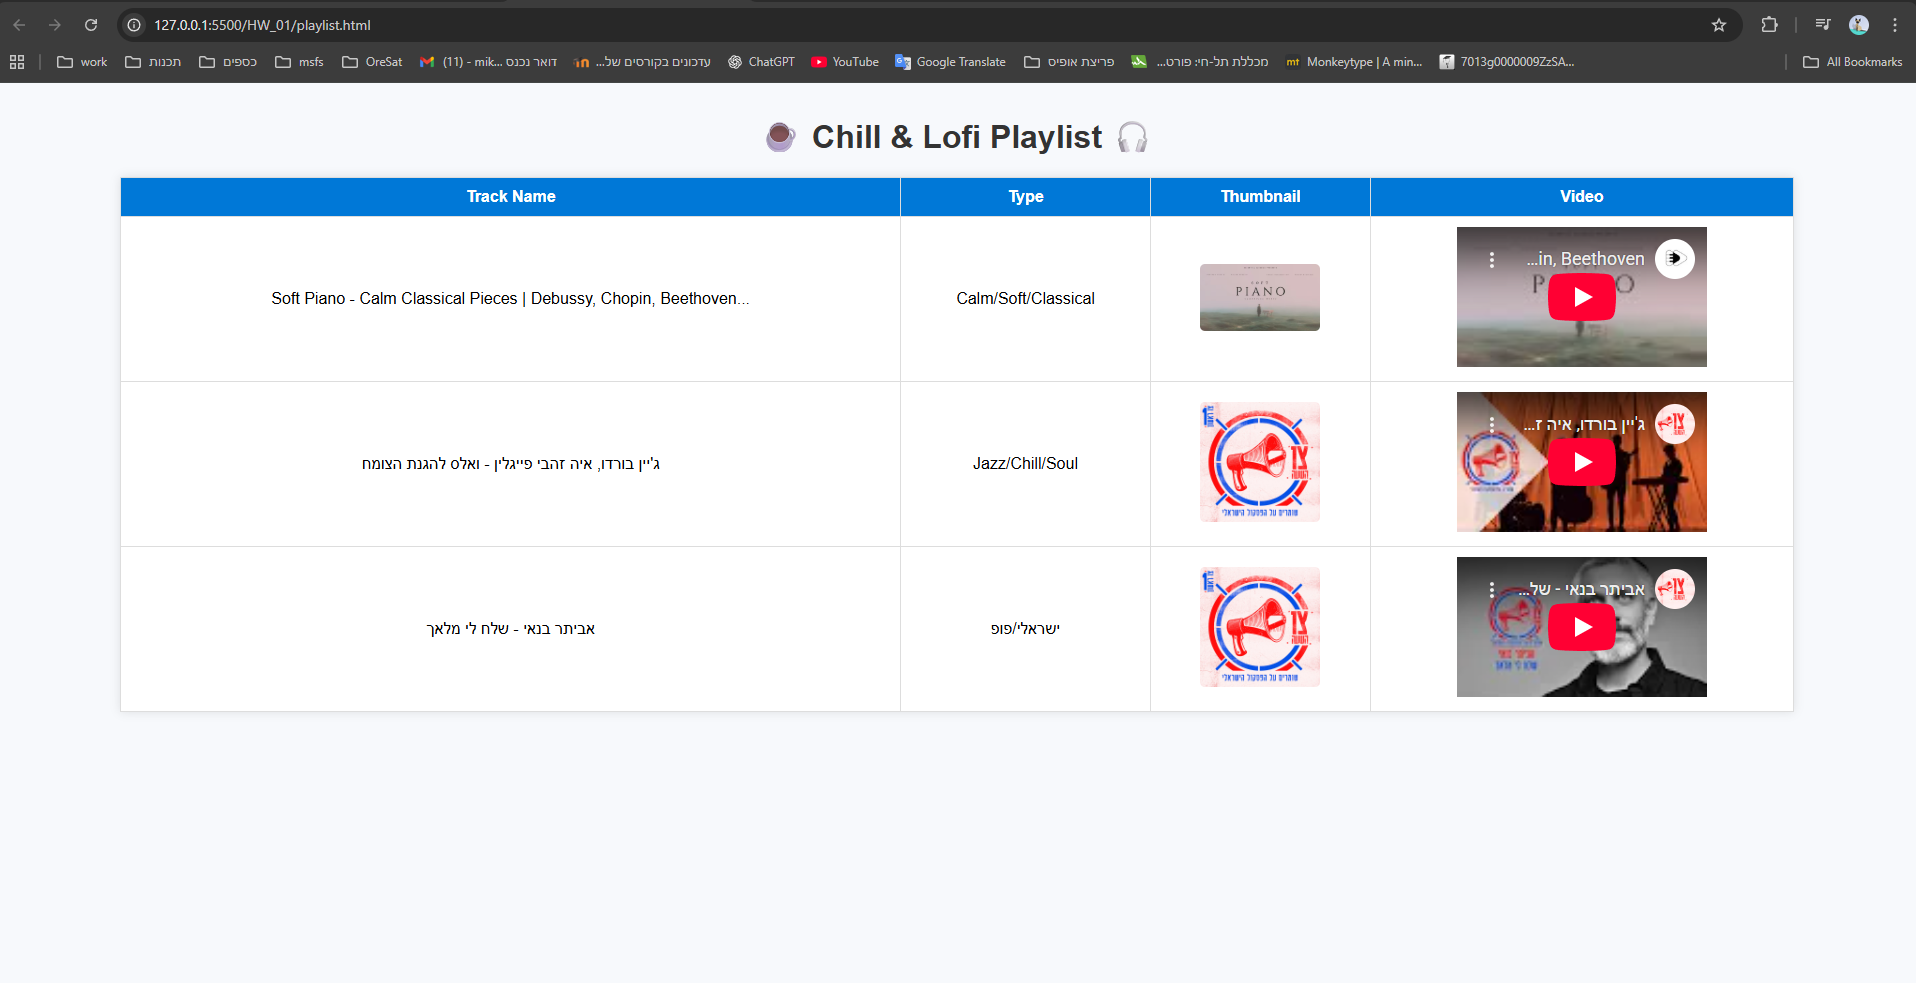
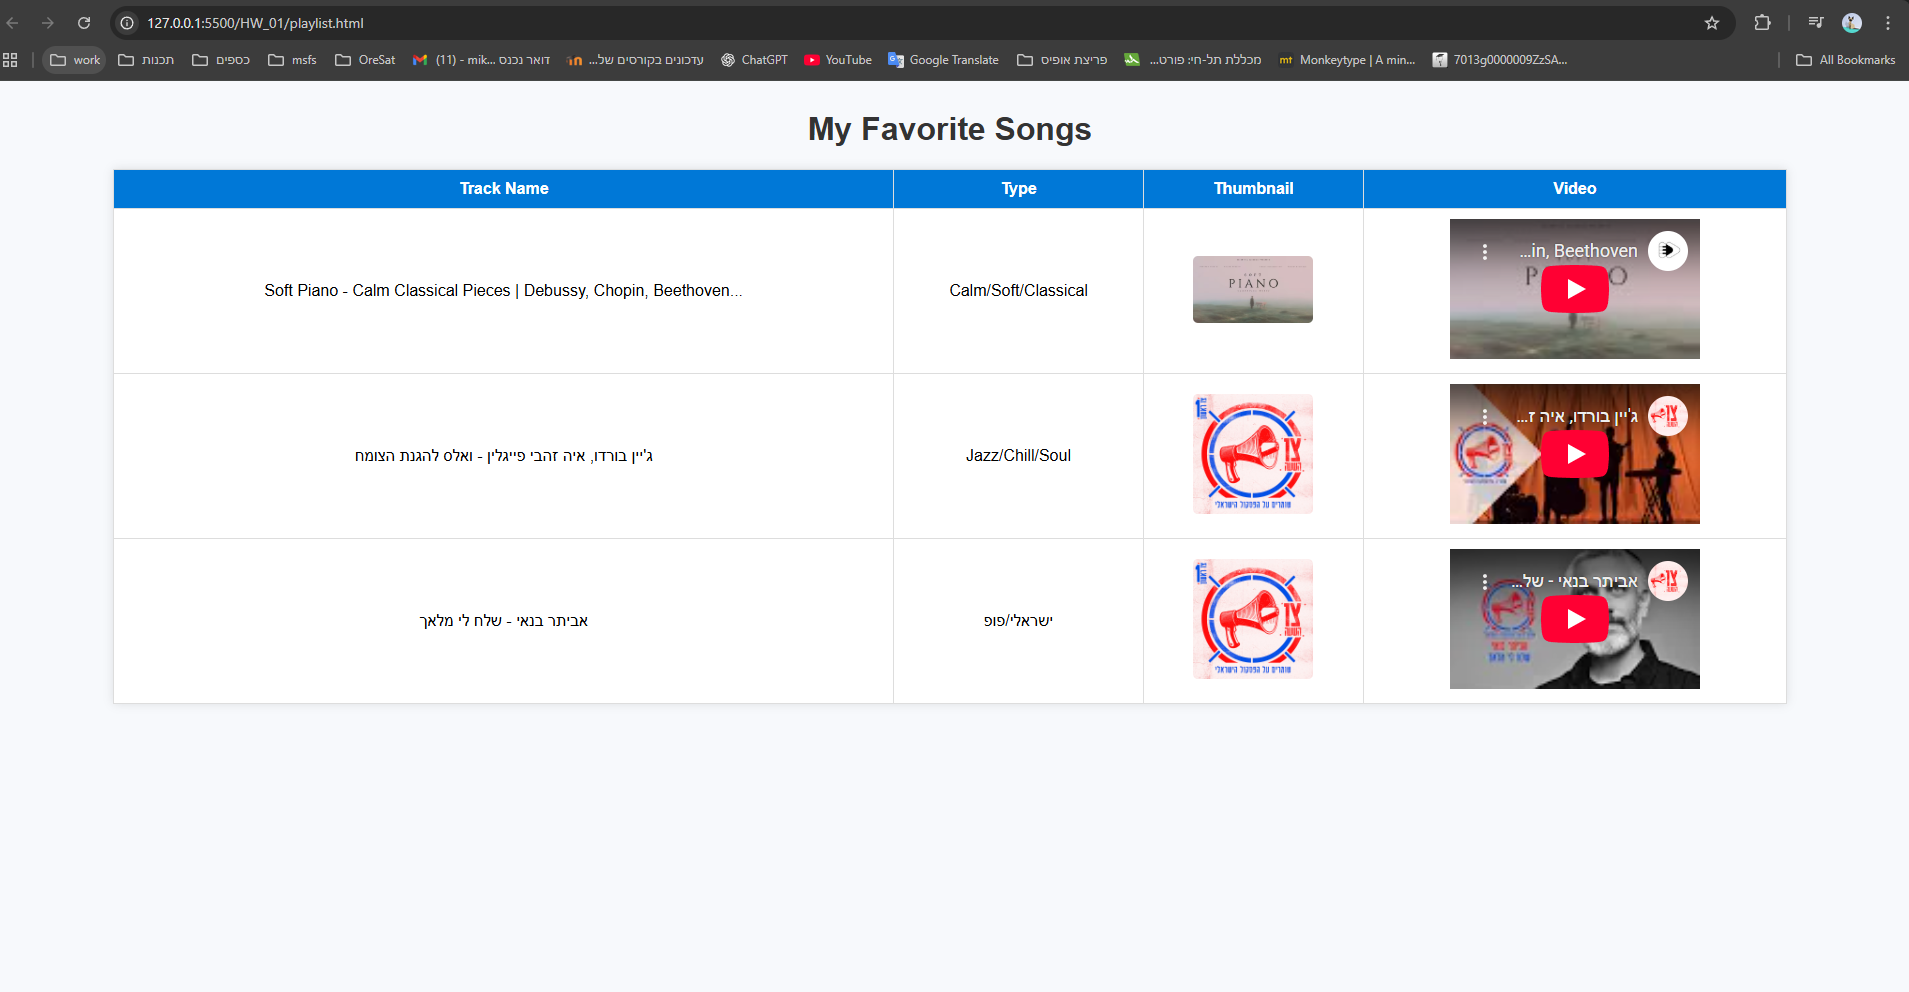
change title

diff --git a/HW_01/playlist.html b/HW_01/playlist.html
@@ -4,12 +4,12 @@
 <head>
     <meta charset="UTF-8">
     <meta name="viewport" content="width=device-width, initial-scale=1.0">
-    <title>Chill Music Playlist</title>
+    <title>My Favorite Songs</title>
     <link rel="stylesheet" href="playlist.css">
 </head>
 
 <body>
-    <h1>☕ Chill & Lofi Playlist 🎧</h1>
+    <h1>My Favorite Songs</h1>
 
     <table>
         <thead>
